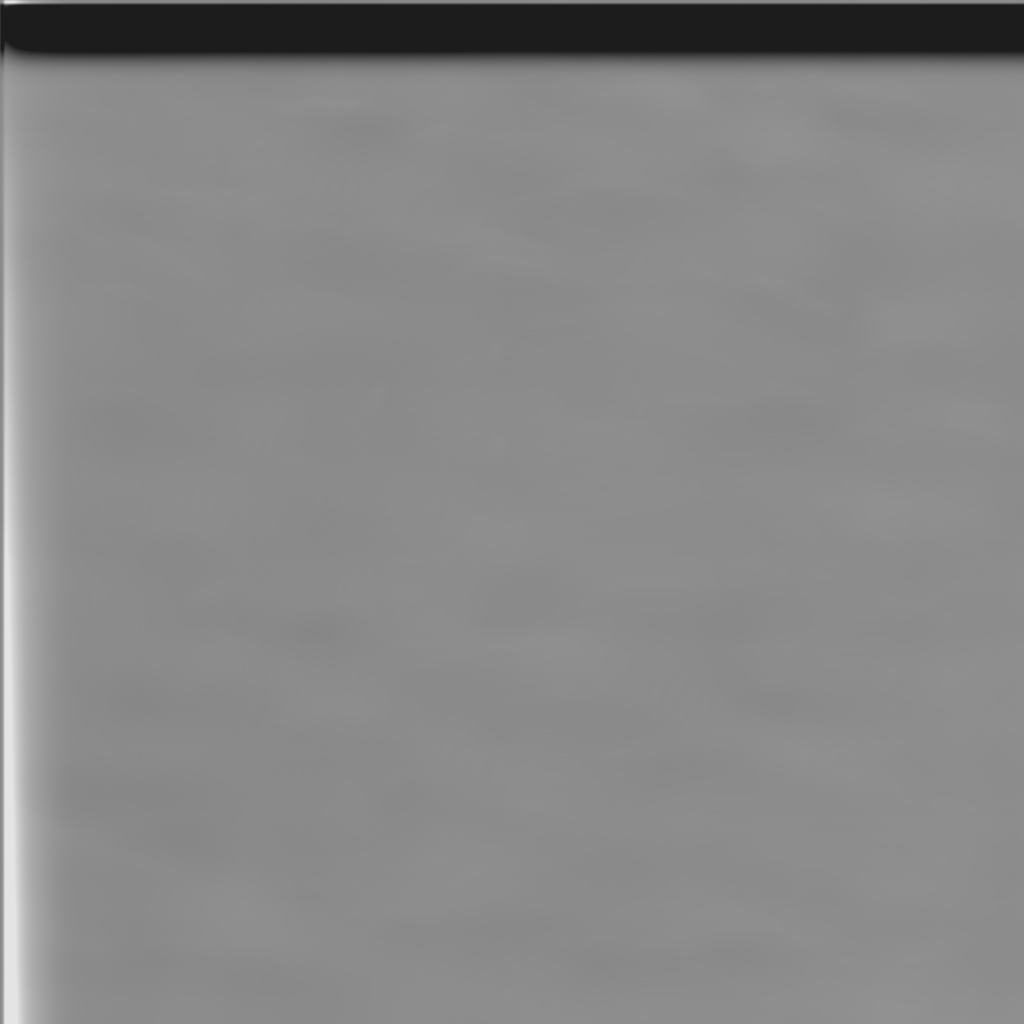
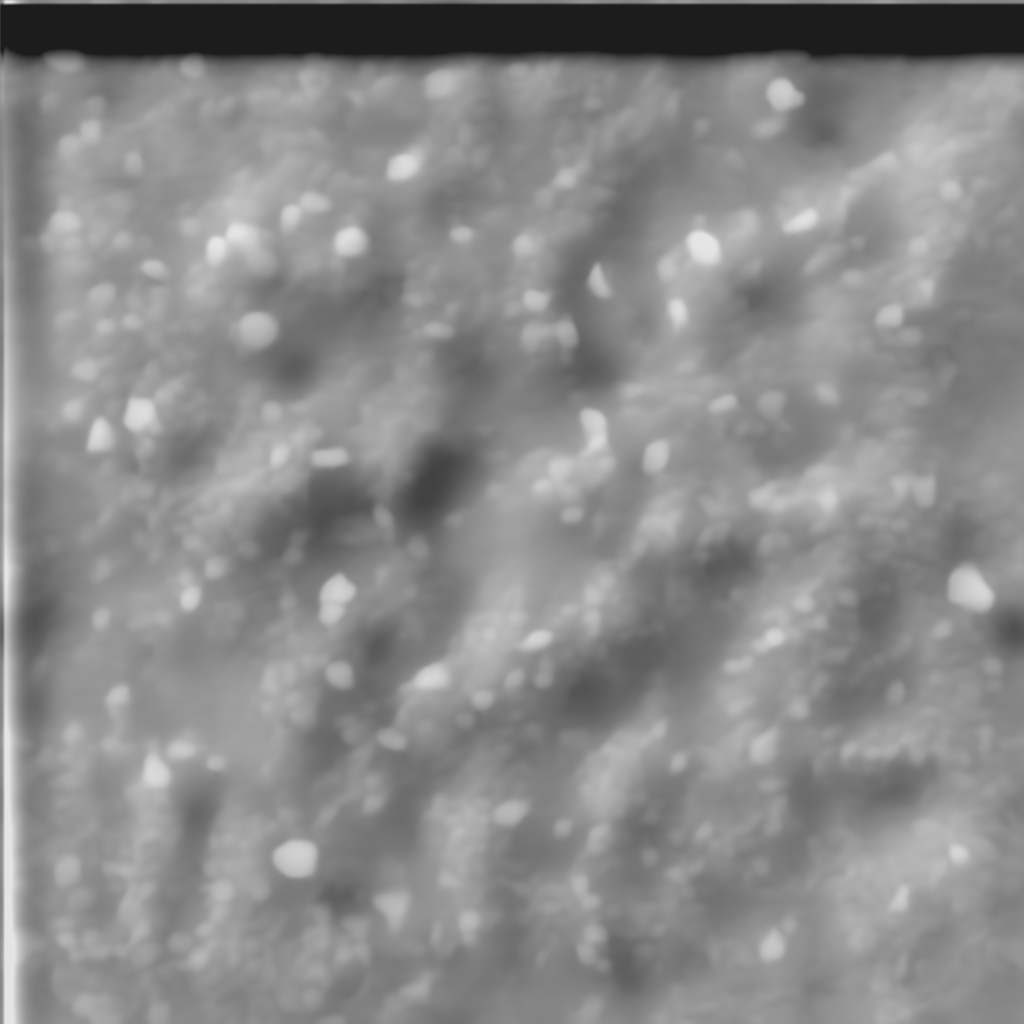
Zone B step 1g: break the ground into relief materials.
Rock, sand, clay, and wash gravel each keep two stills. The noise mix that stamped one crack carpet is gone. The open floor is sand, and the steepest slope stays under 15 degrees.

diff --git a/packs/zone-b/play/field.js b/packs/zone-b/play/field.js
@@ -158,7 +158,7 @@ export function macroAt(x, z) {
   const rimIn = Math.max(0, Math.min(1, wall / 16));
   const basin = Math.exp(-((z + 10) * (z + 10)) / (2 * 16 * 16));
   const dune = Math.sin((x * Math.PI * 2) / 40 + z * 0.04) * Math.cos((z * Math.PI * 2) / 42);
-  h += 0.5 * dune * basin * rimIn;
+  h += 0.65 * dune * basin * rimIn;
   // Butte skirts cross the rim. A wide low mound, not a second cliff.
   const mound = butteMound(x, z);
   h += mound;
@@ -178,25 +178,43 @@ export function familyAt(x, z) {
 /** a/b are even slot ids. w is 0 inside a family and rises toward a boundary. */
 export function familyBlend(x, z) {
   const wall = segDist(x, z);
-  const rim = Math.max(0, Math.min(1, (14 - wall) / 8));
-  const basin = Math.exp(-((z + 10) * (z + 10)) / (2 * 14 * 14));
-  const slot = Math.exp(-((z - 22) * (z - 22)) / (2 * 16 * 16));
-  const wash = Math.exp(-((z + 35) * (z + 35)) / (2 * 10 * 10));
-  let a = 4;
-  let b = 4;
+  const rim = Math.max(0, Math.min(1, (16 - wall) / 10));
+  const basin = Math.exp(-((z + 10) * (z + 10)) / (2 * 18 * 18));
+  const slot = Math.exp(-((z - 18) * (z - 18)) / (2 * 12 * 12));
+  const wash = Math.exp(-((z + 38) * (z + 38)) / (2 * 14 * 14));
+  // Rock shelves cross the chase, so the run is not one clay carpet.
+  const shelves = Math.exp(-((z - 36) * (z - 36)) / (2 * 14 * 14));
+  const side = Math.max(0, Math.min(1, (Math.abs(x) - 6) / 6));
+  const clay = Math.exp(-((z - 6) * (z - 6)) / (2 * 12 * 12)) * side;
+  // Open floor is sand. Cracked clay sits on the side shelves of the basin.
+  // Rock rims and a gravel wash break the run, so the chase is not one tile.
+  let a = 2;
+  let b = 2;
   let w = 0;
-  if (rim > 0.55) {
+  if (rim > 0.45) {
     a = 0;
-    b = 4;
-    w = 1 - (rim - 0.55) / 0.45;
-  } else if (basin > slot && basin > wash && basin > 0.35) {
-    a = 2;
-    b = 4;
-    w = 1 - Math.min(1, (basin - 0.35) / 0.4);
-  } else if (slot > 0.35 || wash > 0.35) {
+    b = 2;
+    w = 1 - (rim - 0.45) / 0.55;
+  } else if (wash > 0.4) {
     a = 6;
-    b = 4;
-    w = 1 - Math.min(1, (Math.max(slot, wash) - 0.35) / 0.4);
+    b = 2;
+    w = 1 - Math.min(1, (wash - 0.4) / 0.45);
+  } else if (clay > 0.4) {
+    a = 4;
+    b = 2;
+    w = 1 - Math.min(1, (clay - 0.4) / 0.45);
+  } else if (basin > 0.4 && basin >= slot) {
+    a = 2;
+    b = 6;
+    w = 1 - Math.min(1, (basin - 0.4) / 0.45);
+  } else if (slot > 0.35) {
+    a = 6;
+    b = 2;
+    w = 1 - Math.min(1, (slot - 0.35) / 0.45);
+  } else if (shelves > 0.4) {
+    a = 0;
+    b = 2;
+    w = 1 - Math.min(1, (shelves - 0.4) / 0.45);
   }
   if (w < 0) w = 0;
   if (w > 1) w = 1;

diff --git a/packs/zone-b/play/terrain.js b/packs/zone-b/play/terrain.js
@@ -123,19 +123,6 @@ flat in float vFam;
 flat in float vFamB;
 in float vW;
 out vec4 o;
-float hash21(vec2 p) {
-  return fract(sin(dot(p, vec2(127.1, 311.7))) * 43758.5453);
-}
-float vnoise(vec2 p) {
-  vec2 i = floor(p);
-  vec2 f = fract(p);
-  f = f * f * (3.0 - 2.0 * f);
-  float a = hash21(i);
-  float b = hash21(i + vec2(1.0, 0.0));
-  float c = hash21(i + vec2(0.0, 1.0));
-  float d = hash21(i + vec2(1.0, 1.0));
-  return mix(mix(a, b, f.x), mix(c, d, f.x), f.y);
-}
 void main() {
   vec2 d = fwidth(vUv);
   float m = texture(uMask, vMask).r;
@@ -152,19 +139,8 @@ void main() {
     float t = smoothstep(m - 0.1, m + 0.1, vW);
     c = mix(ca, cb, t);
   }
-  // Second Imagine family, crossfaded by smooth noise over about four tiles.
-  // Ridges (family 0) stay mostly the base still. No UV shift, so a tile is never stretched.
-  float alt = mod(vFam + 2.0, 8.0);
-  float altB = mod(vFamB + 2.0, 8.0);
-  vec4 s0 = textureGrad(uAlb, vec3(uv, alt), d, gy);
-  vec4 s1 = textureGrad(uAlb, vec3(uv, mod(alt + 1.0, 8.0)), d, gy);
-  vec3 cs = mix(s0.rgb, s1.rgb, m);
-  vec4 t0 = textureGrad(uAlb, vec3(uv, altB), d, gy);
-  vec4 t1 = textureGrad(uAlb, vec3(uv, mod(altB + 1.0, 8.0)), d, gy);
-  float tb = vW > 0.001 ? smoothstep(m - 0.1, m + 0.1, vW) : 0.0;
-  cs = mix(cs, mix(t0.rgb, t1.rgb, m), tb);
-  float cap = vFam < 0.5 ? 0.22 : 0.75;
-  c = mix(c, cs, vnoise(vUv * 0.40) * cap);
+  // One family is two Imagine stills, crossfaded by the mask. A third still
+  // mixed by noise stamped one crack carpet across the basin.
   float rho = length(vUv) * uTile;
   float ft = smoothstep(uFogNear, uFogFar, rho);
   c = mix(c, uFog, ft * 0.18);
